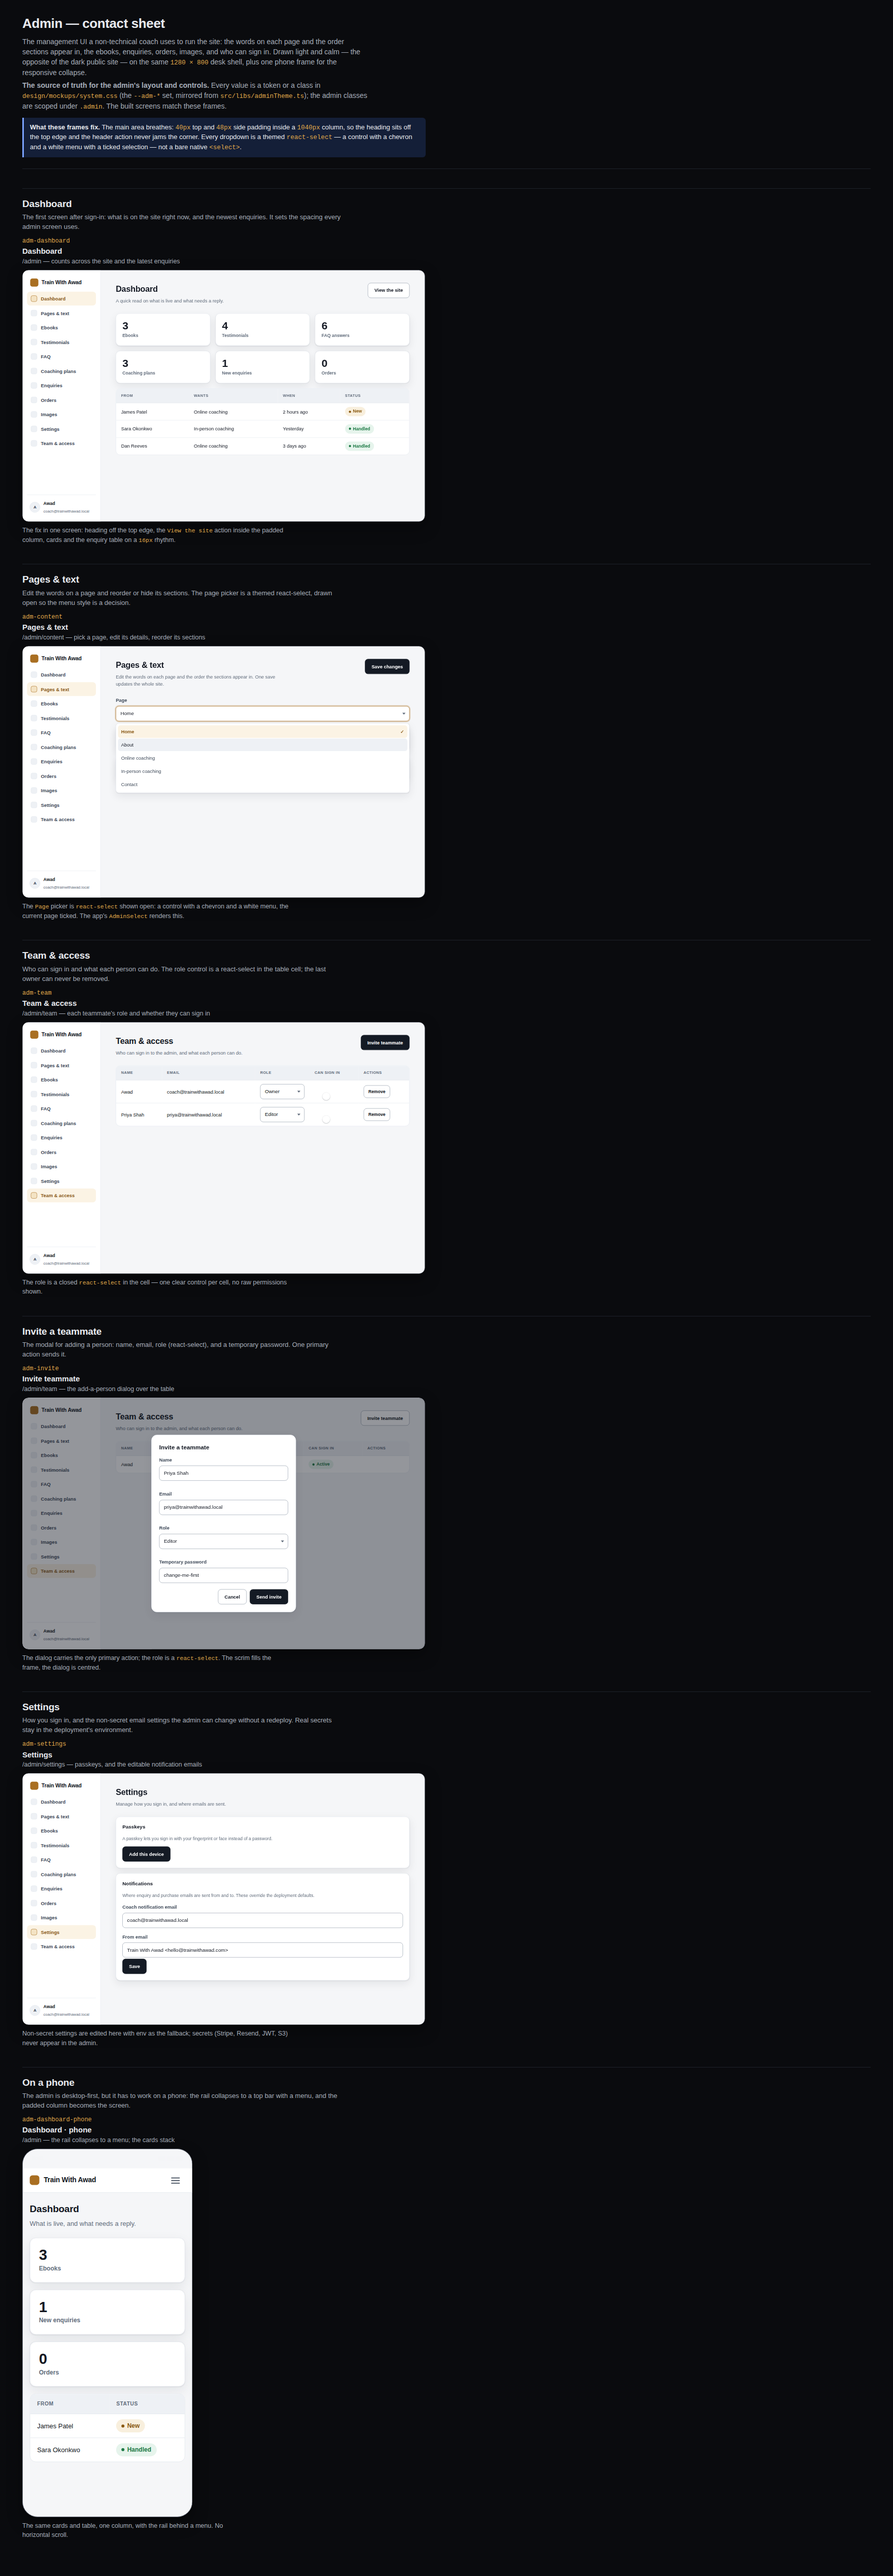
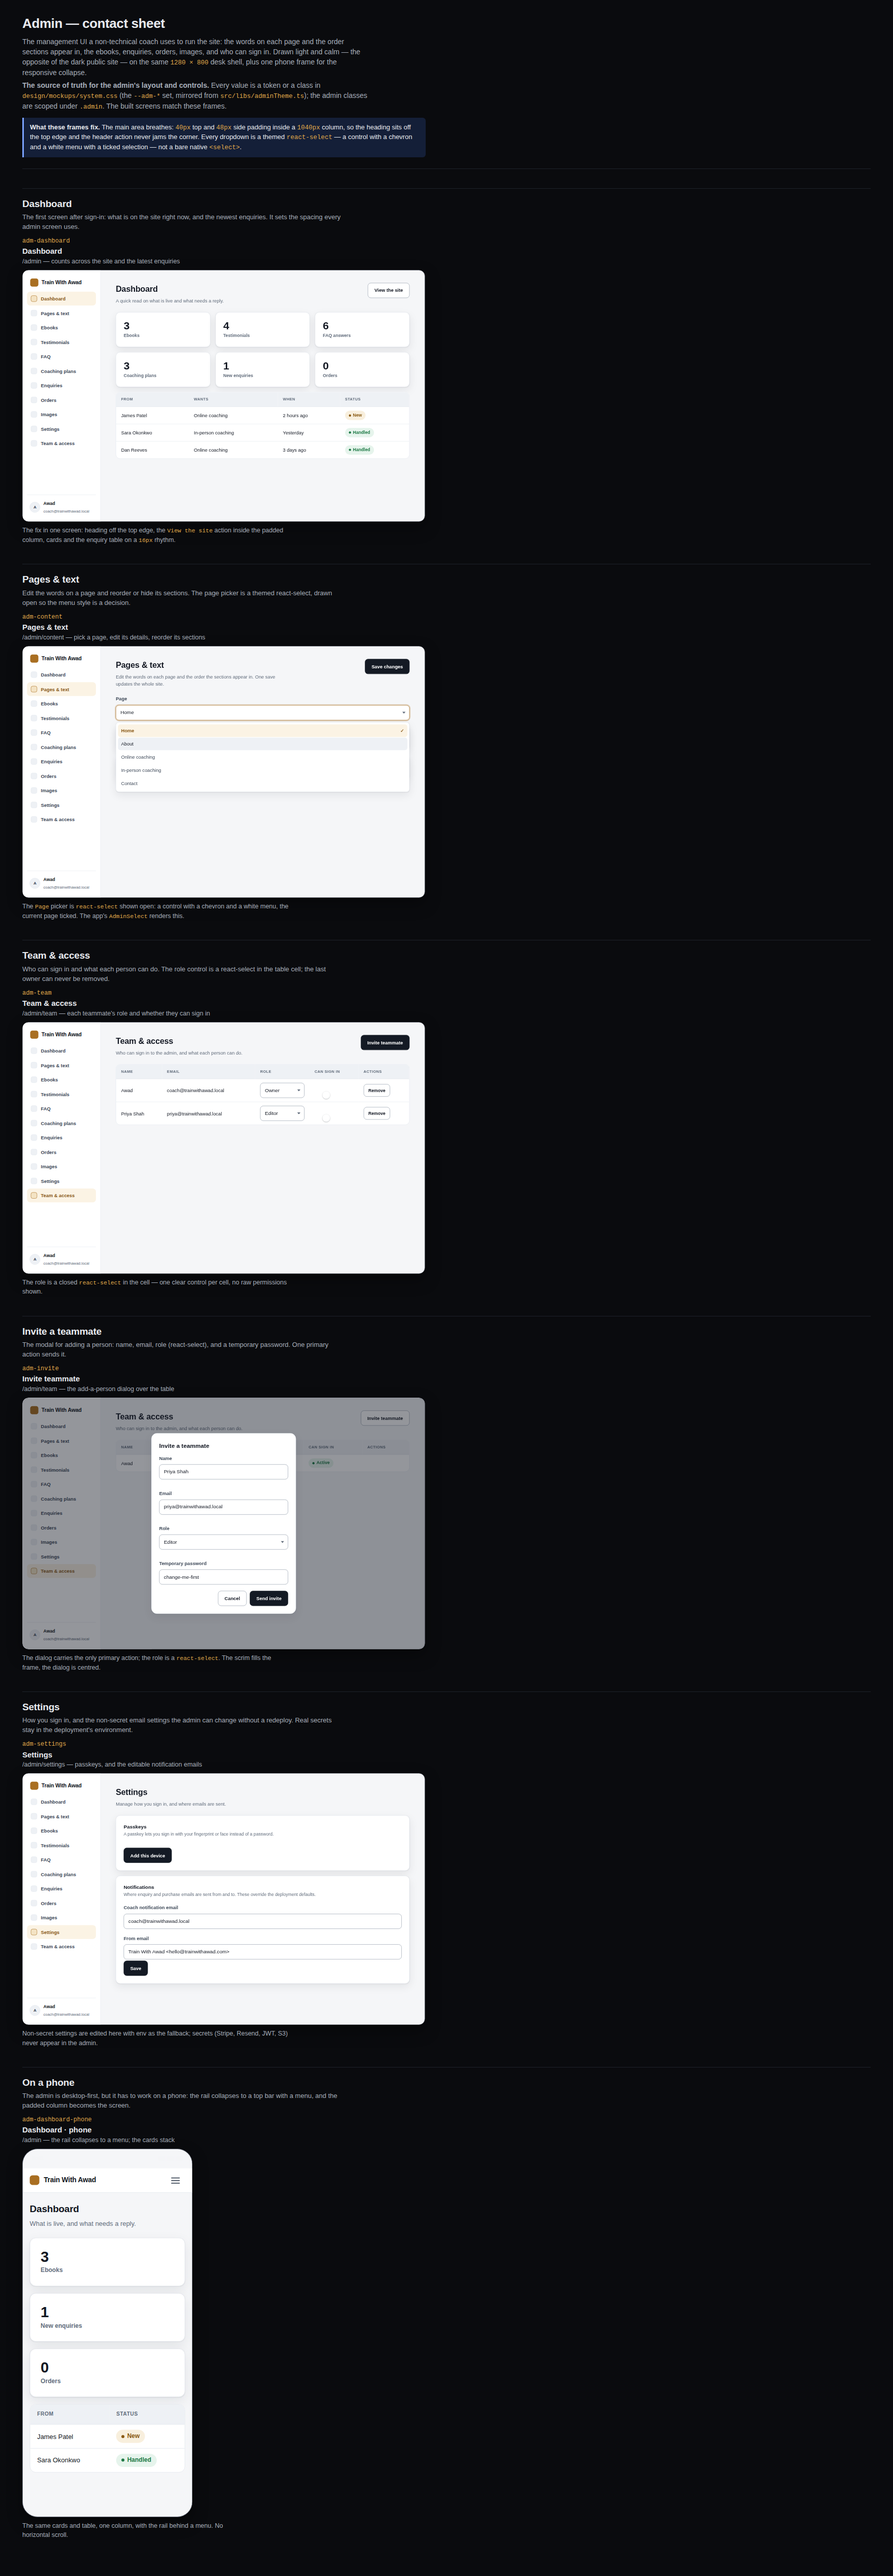
Give admin cards and pages generous spacing
The admin cards looked packed: the title, intro, fields, and the
trailing button butted together, consecutive fields had no gap, and
stacked cards and page blocks sat too close. /admin/settings showed
all of it at once.

Space it centrally so every admin page benefits:
- AdminCard lays its children on an even vertical rhythm (18px on each
  following sibling), so title, intro, fields, and button each breathe.
  Margin on following siblings, not flex gap, keeps buttons at their
  own width.
- AdminInner stacks its top-level blocks (page header, notices, cards,
  tables) with a 24px gap.
- Fields gain an 18px gap between consecutive fields and an 8px
  label-to-control gap.
- Card padding goes from 20px to 24px.

The mockup (design/mockups/system.css .a-card/.a-inner/.a-field,
--adm-pad) is updated first as the source of truth and its checks
re-run (35/35 fit, 35/35 ease), then mirrored into adminTheme and the
admin components.

diff --git a/design/mockups/system.css b/design/mockups/system.css
@@ -1303,7 +1303,7 @@ a.ebook:focus-visible,
 	--adm-r-pill: 999px;
 	--adm-ctl-h: 48px;
 	--adm-gap: 16px;
-	--adm-pad: 20px;
+	--adm-pad: 24px;
 	background: var(--adm-bg);
 	color: var(--adm-ink);
 	font-family: -apple-system, BlinkMacSystemFont, "Segoe UI", Roboto, "Helvetica Neue", Arial, "Noto Sans", sans-serif;
@@ -1416,13 +1416,15 @@ a.ebook:focus-visible,
 }
 .admin .a-inner {
 	padding: 40px 48px 56px;
+	display: flex;
+	flex-direction: column;
+	gap: 24px;
 }
 
 .admin .a-phead {
 	display: flex;
 	align-items: flex-start;
 	gap: 16px;
-	margin-bottom: 28px;
 }
 .admin .a-phead h1 {
 	margin: 0;
@@ -1456,8 +1458,14 @@ a.ebook:focus-visible,
 	padding: var(--adm-pad);
 	box-shadow: var(--adm-shadow);
 }
+/* Give every card an even vertical rhythm so the title, intro, fields, and
+   trailing button each get breathing room instead of butting together. Uses
+   margin on following siblings (not flex gap) so buttons keep their own width. */
+.admin .a-card > * + * {
+	margin-top: 18px;
+}
 .admin .a-card > h2 {
-	margin: 0 0 14px;
+	margin: 0;
 	font-size: 16px;
 	font-weight: 700;
 }
@@ -1497,10 +1505,10 @@ a.ebook:focus-visible,
 .admin .a-field {
 	display: flex;
 	flex-direction: column;
-	gap: 7px;
+	gap: 8px;
 }
 .admin .a-field + .a-field {
-	margin-top: 16px;
+	margin-top: 18px;
 }
 .admin .a-field label {
 	font-size: 15px;

diff --git a/src/libs/adminUi/styled.tsx b/src/libs/adminUi/styled.tsx
@@ -69,8 +69,15 @@ export const AdminCardStyled = styled.div`
 	padding: var(--adm-pad);
 	box-shadow: var(--adm-shadow);
 
+	/* Even vertical rhythm so the title, intro, fields, and trailing button each
+	   get breathing room instead of butting together. Margin on following
+	   siblings (not flex gap) keeps buttons at their own width. */
+	> * + * {
+		margin-top: 18px;
+	}
+
 	h2 {
-		margin: 0 0 14px;
+		margin: 0;
 		font-size: 16px;
 		font-weight: 700;
 		color: var(--adm-ink);
@@ -81,7 +88,6 @@ export const PageHeaderStyled = styled.header`
 	display: flex;
 	align-items: flex-start;
 	gap: 16px;
-	margin-bottom: 24px;
 
 	h1 {
 		margin: 0;
@@ -116,7 +122,11 @@ export const PageHeaderStyled = styled.header`
 export const FieldStyled = styled.div`
 	display: flex;
 	flex-direction: column;
-	gap: 7px;
+	gap: 8px;
+
+	& + & {
+		margin-top: 18px;
+	}
 
 	label {
 		font-size: 15px;
@@ -189,6 +199,9 @@ export const AdminMainStyled = styled.main`
 
 export const AdminInnerStyled = styled.div`
 	padding: 40px 48px 56px;
+	display: flex;
+	flex-direction: column;
+	gap: 24px;
 
 	@media (max-width: 640px) {
 		padding: 24px 16px 40px;

diff --git a/src/libs/AdminSettingsWrapper/styled.tsx b/src/libs/AdminSettingsWrapper/styled.tsx
@@ -4,13 +4,14 @@ import styled from "styled-components";
 
 // Intro copy above the passkey list. Colours are --adm-* tokens from adminTheme.
 export const IntroStyled = styled.p`
-	margin: 0 0 var(--adm-gap);
+	margin: 0;
 	color: var(--adm-ink-2);
+	line-height: 1.5;
 `;
 
 export const PasskeyListStyled = styled.ul`
 	list-style: none;
-	margin: 0 0 var(--adm-gap);
+	margin: 0;
 	padding: 0;
 	display: grid;
 	gap: 8px;

diff --git a/src/libs/adminTheme.ts b/src/libs/adminTheme.ts
@@ -57,7 +57,7 @@ export const adminLight = css`
 	--adm-ctl-h: 48px;
 	--adm-ctl-h-lg: 56px;
 	--adm-gap: 16px;
-	--adm-pad: 20px;
+	--adm-pad: 24px;
 
 	color-scheme: light;
 	background: var(--adm-bg);
